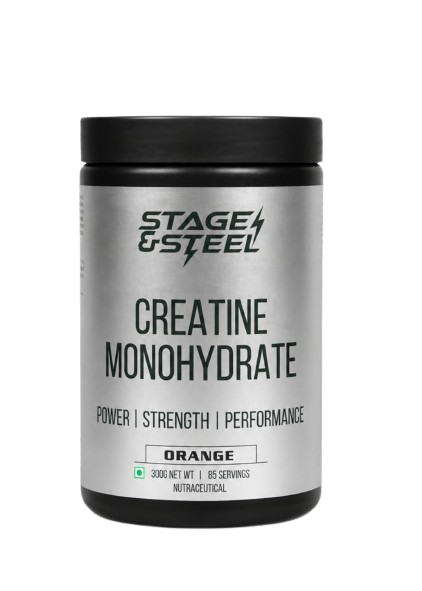
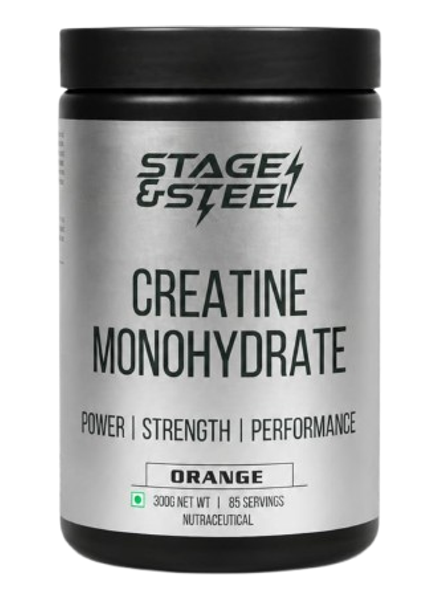
Normalize all product cutout bounding boxes and enlarge card showcase stages for bold uniform bottle display

diff --git a/components/ProductCatalog.tsx b/components/ProductCatalog.tsx
@@ -416,7 +416,7 @@ export default function ProductCatalog() {
                 {/* 1. SEAMLESS STUDIO SHOWCASE STAGE */}
                 <div
                   onClick={() => setSelectedProduct(product)}
-                  className="relative w-full h-80 sm:h-96 bg-gradient-to-b from-[#1E1E1C] via-[#171716] to-[#121211] flex flex-col items-center justify-between p-6 cursor-pointer group/stage overflow-hidden border-b border-white/5"
+                  className="relative w-full h-[360px] sm:h-[420px] bg-gradient-to-b from-[#1E1E1C] via-[#171716] to-[#121211] flex flex-col items-center justify-between p-5 sm:p-6 cursor-pointer group/stage overflow-hidden border-b border-white/5"
                 >
                   {/* Studio Ambient Radial Spotlight */}
                   <div className="absolute inset-0 bg-[radial-gradient(circle_at_50%_60%,rgba(89,98,56,0.18)_0%,rgba(255,255,255,0.03)_35%,transparent_70%)] pointer-events-none" />
@@ -436,9 +436,9 @@ export default function ProductCatalog() {
                   </div>
 
                   {/* Product Cutout Showcase with Realistic Ground Shadow */}
-                  <div className="relative w-full h-56 sm:h-64 flex items-center justify-center my-auto">
+                  <div className="relative w-full h-64 sm:h-76 flex items-center justify-center my-auto">
                     {/* Pedestal Ground Contact Shadow */}
-                    <div className="absolute bottom-2 w-48 sm:w-56 h-6 bg-black/80 rounded-full blur-md pointer-events-none group-hover/stage:scale-95 transition-transform duration-500" />
+                    <div className="absolute bottom-2 w-52 sm:w-64 h-6 bg-black/80 rounded-full blur-md pointer-events-none group-hover/stage:scale-95 transition-transform duration-500" />
                     
                     {/* Floating Product Image */}
                     <div className="relative w-full h-full flex items-center justify-center transition-all duration-500 ease-out group-hover/stage:scale-108 group-hover/stage:-translate-y-2">
